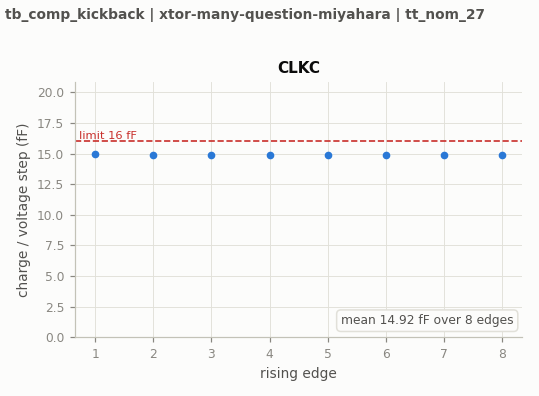
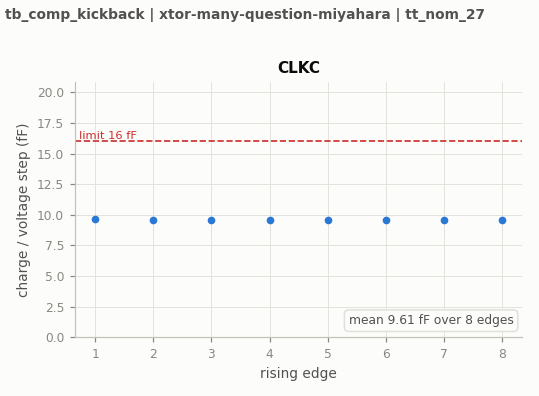
Record Miyahara B12 official TT capacitance and kickback

diff --git a/design/xtor/adc_comp/many-question-miyahara/README.md b/design/xtor/adc_comp/many-question-miyahara/README.md
@@ -4,9 +4,9 @@ The canonical `adc_comp.scs` now contains the electrically identical source scre
 
 The source contains 43 MOS devices and 9 physical MOM capacitors. All dimensions and terminal parasitics come from successful callbacks or exact validated geometry reuse. Physical rail loads carry persistent current; [ENERGY-COMPARISON.md](ENERGY-COMPARISON.md) reports measured complete-circuit AVDD costs. No power limit or topology-efficiency conclusion is implied.
 
-The old canonical netlist and all 92 official records are preserved at commit `efe4fe080ceaa9ba37f8bdfbf4a6b3eccae311ed` and in a SHA-verified archive. Those records are now stale for the new source. They will be replaced only by actual new-source runs through the existing official runner; no private measurements or old metadata are relabeled. [Promotion proof](PROMOTION-BUFFER-V12.md) records source equivalence and preserved hashes. [Historical baseline](BASELINE-BEFORE-BUFFER-V12.md) retains the previous narrative and experiment links.
+The old canonical netlist and all 92 official records are preserved at commit `efe4fe080ceaa9ba37f8bdfbf4a6b3eccae311ed` and in a SHA-verified archive. At promotion all 92 records became stale. One genuine new-source TT capacitance/kickback case has now been recorded; 91 old-source records remain stale. Further records will be replaced only by actual new-source runs through the existing official runner; no private measurements or old metadata are relabeled. [Promotion proof](PROMOTION-BUFFER-V12.md) records source equivalence and preserved hashes. [Historical baseline](BASELINE-BEFORE-BUFFER-V12.md) retains the previous narrative and experiment links.
 
-Next formal gates are TT input/clock capacitance and kickback, followed by TT noise. Remaining-corner SOA, all required formal corners, Monte Carlo and mixed-top qualification remain to establish. No old capacitance, noise, mismatch or qualification result is inherited.
+[Official TT capacitance/kickback](FORMAL-BUFFER-V12.md) passes: input 19.328731 fF, CLKC 9.609325 fF and kickback 0.002026 uV. TT noise is the next formal gate. Remaining-corner SOA, all required formal corners, Monte Carlo and mixed-top qualification remain to establish. No old capacitance, noise, mismatch or qualification result is inherited.
 
 ![Current complete transistor schematic](schematic.png)
 

diff --git a/design/xtor/adc_comp/many-question-miyahara/FORMAL-BUFFER-V12.md b/design/xtor/adc_comp/many-question-miyahara/FORMAL-BUFFER-V12.md
@@ -1,0 +1,19 @@
+# Official new-source validation: BUFFER-V12
+
[1 lines of base64/hex data omitted]
+
+## TT capacitance and kickback
+
+Actual clean source commit: `7e6d4dede3c74ef0554fe425fe16148f8a8230df`. Run: `20261031-055648-7ca5-tb_comp_kickback`. The canonical view, official testbench, numerical settings, measurements and recording are unchanged. The private wrapper adds resource accounting, evidence verification and owned-run cleanup only.
+
+| Metric | Measured | Limit | Result |
+|---|---:|---:|---|
+| Differential kickback | 0.002025736 uV | 40 uV | pass |
+| Input capacitance per input | 19.328731219 fF | 20 fF | pass |
+| CLKC capacitance | 9.609324821 fF | 16 fF | pass |
+
+The genuine [TT kickback JSON](../../../../results/adc_comp/tb_comp_kickback/xtor-many-question-miyahara/tt_nom_27.json) records `git_clean=true`, mode `aps`, and source electrical hash prefix `e64f215d6bd941a8`. Numerics remain reltol 0.001, traponly, configured maxstep 66 ps; largest accepted step is 50.5 ps. This official capacitance test is separate from the mixed-delay clock-charge diagnostic.
+
[1 lines of base64/hex data omitted]
+
+One official case is fresh for B12; 91 old-source records remain stale. TT noise is the next gate. Remaining-corner stress, full official coverage, mismatch and mixed-top qualification remain open. No old-source performance is inherited.
